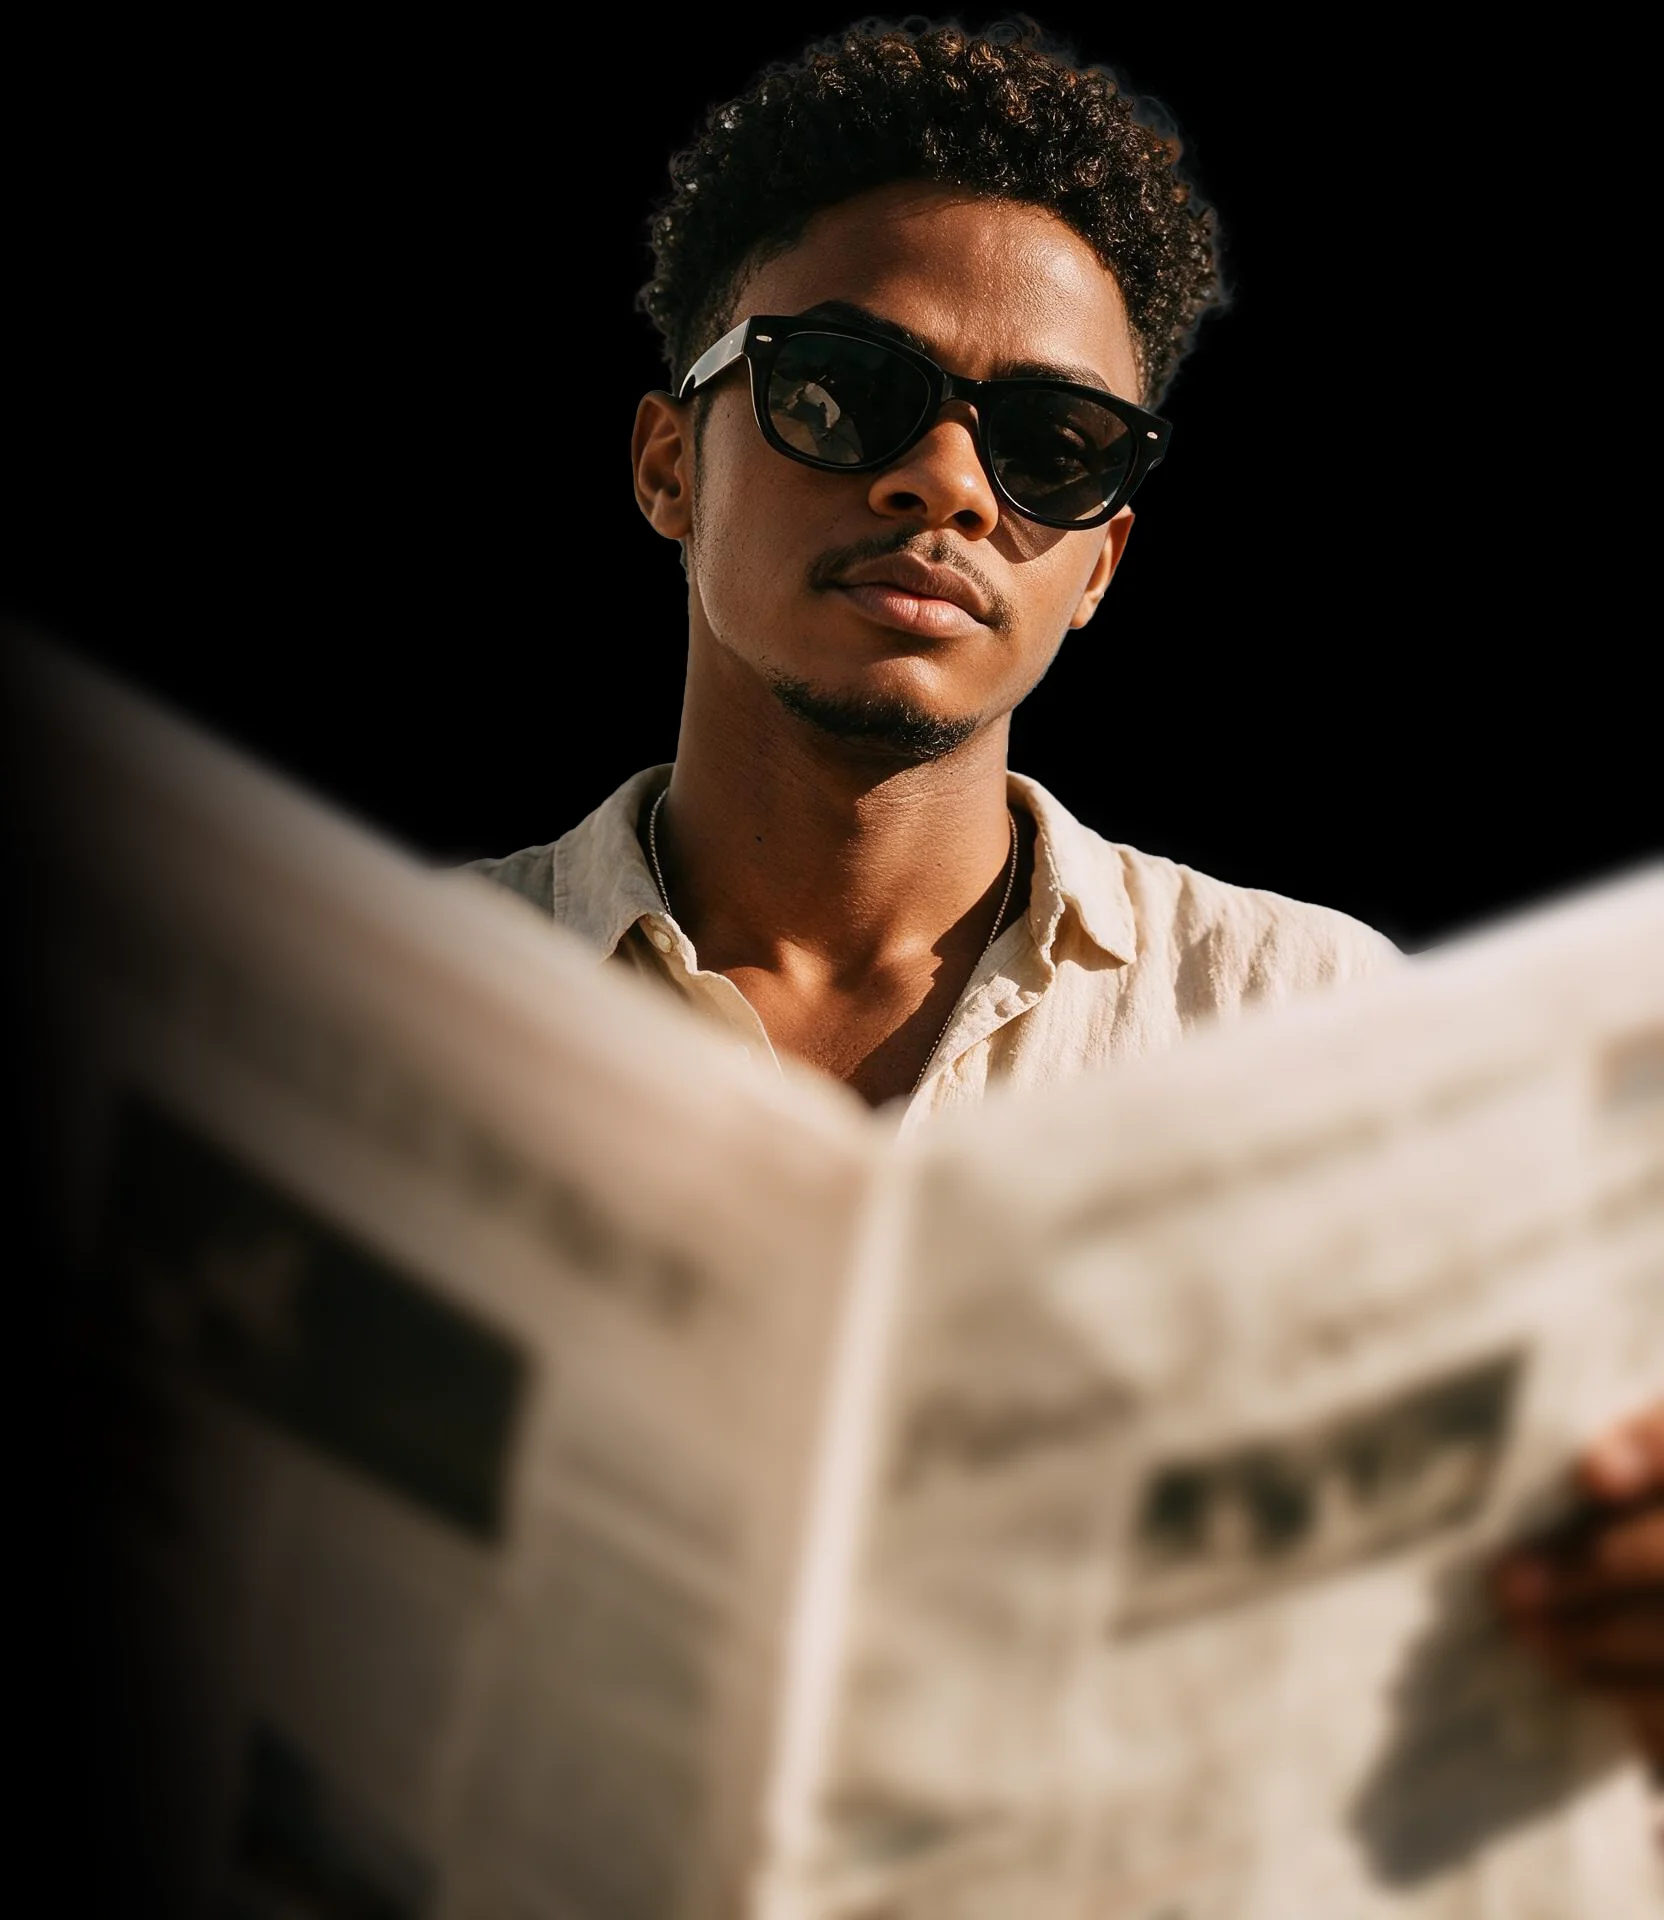
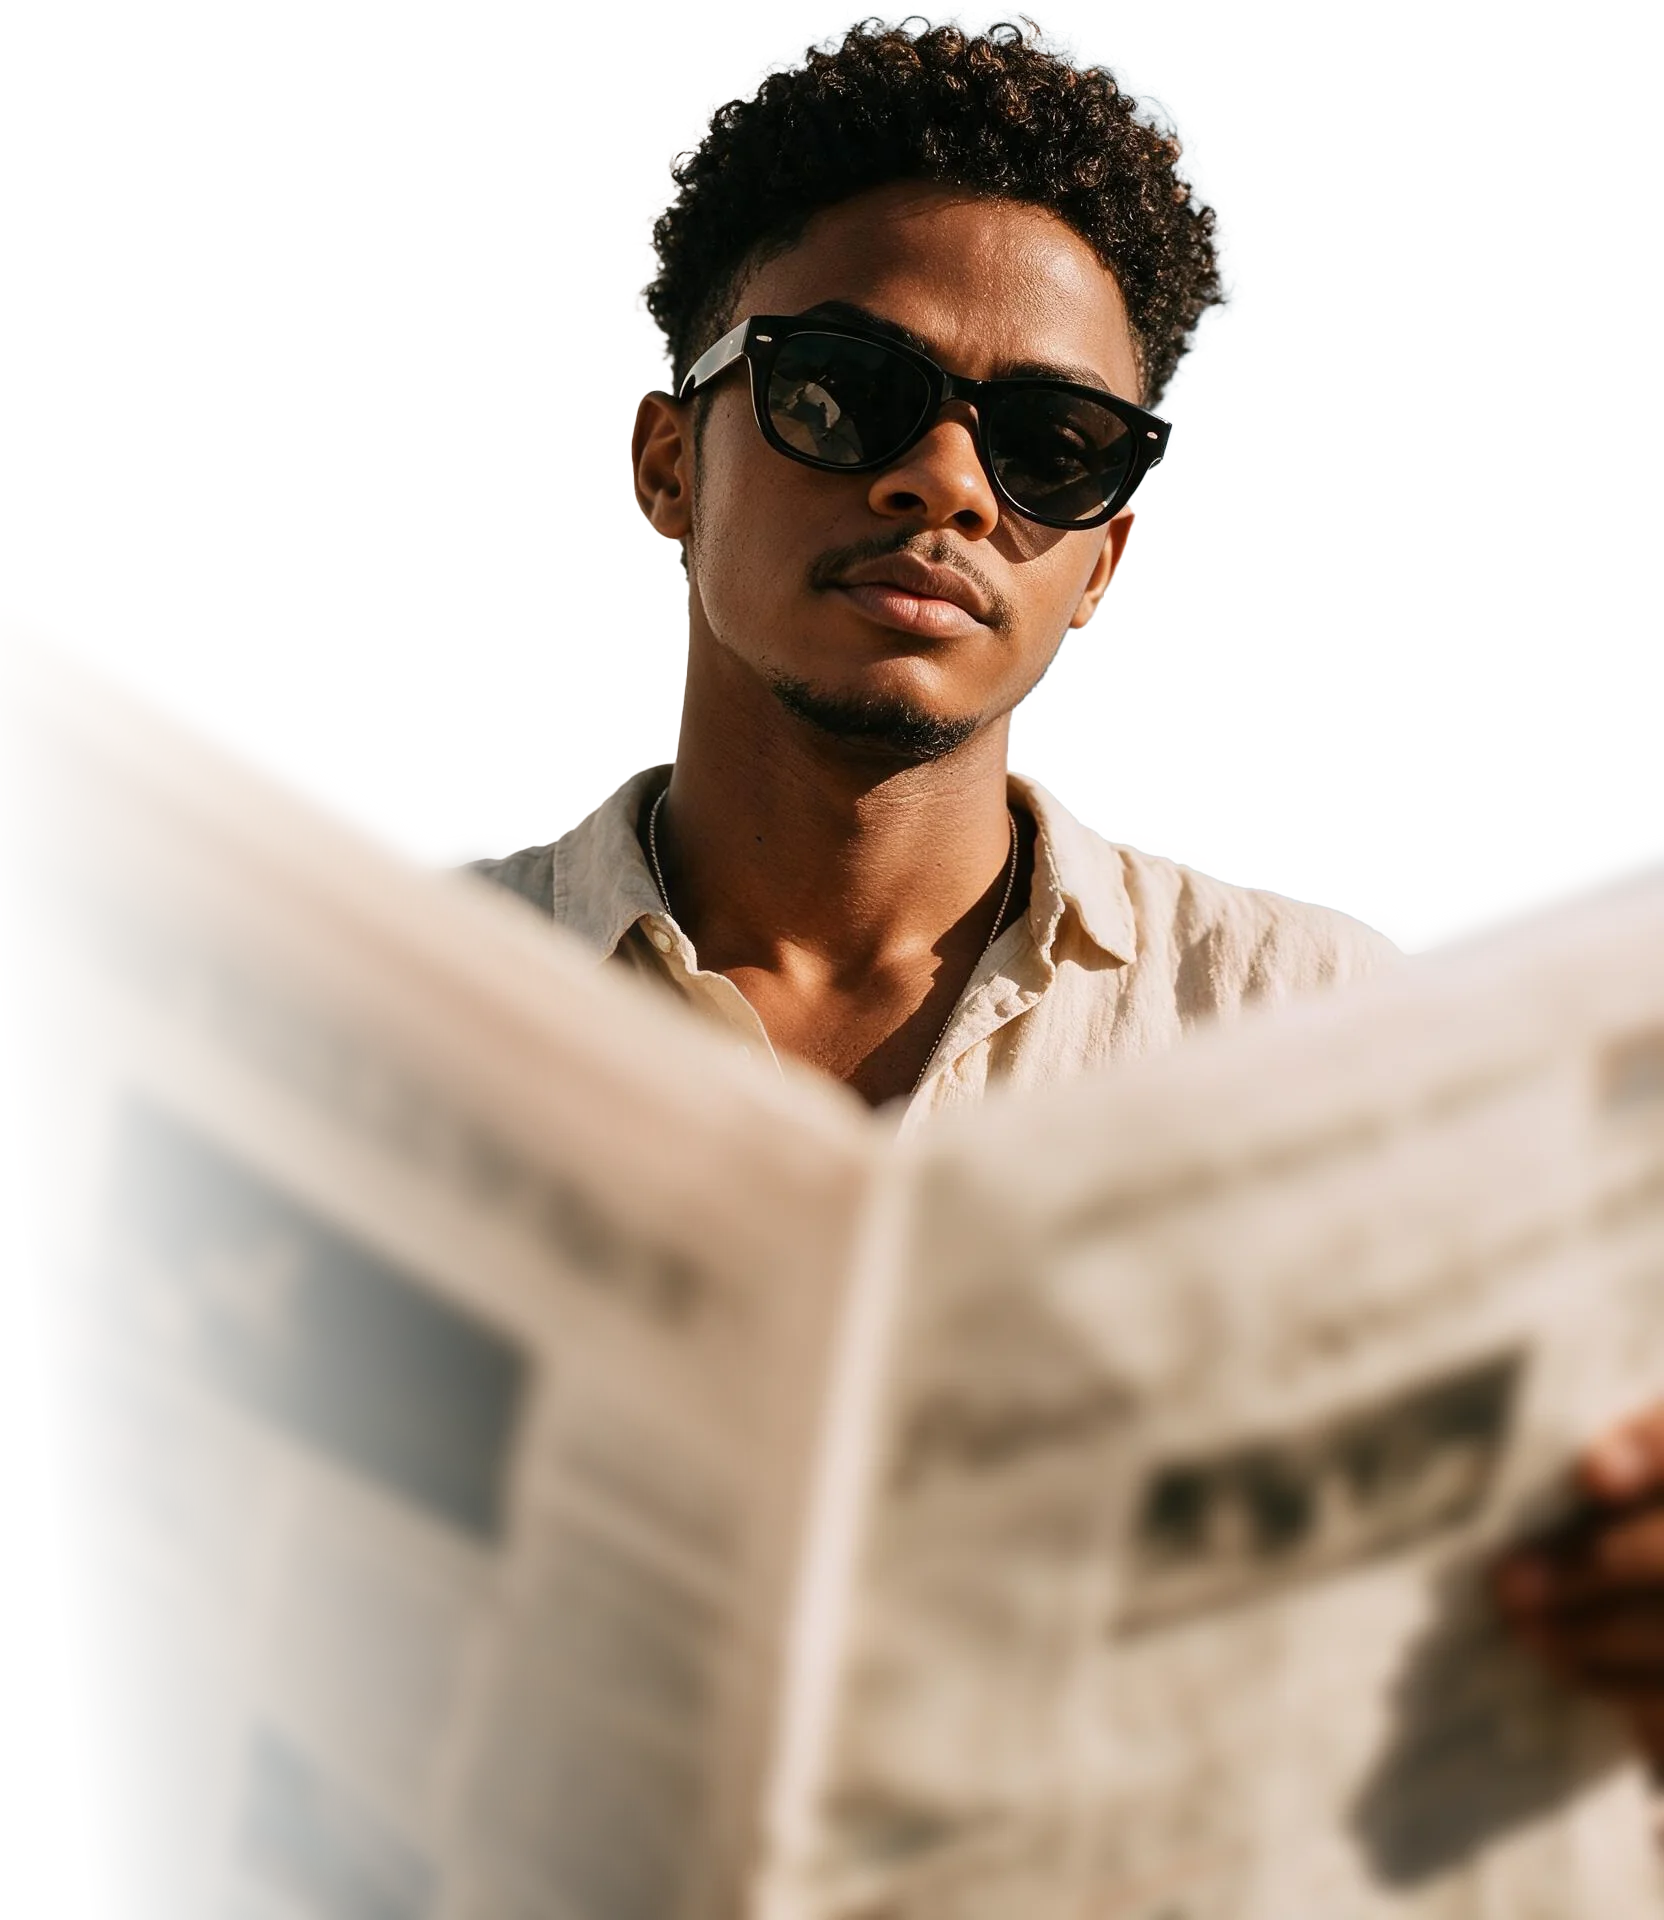
Accueil : portrait transparent dans la section Moi (fond transparent préservé, pas de fond noir)

diff --git a/index.html b/index.html
@@ -93,7 +93,7 @@
       </div>
       <picture class="h2-moi-media reveal reveal-left">
         <source srcset="assets/moi-portrait.webp" type="image/webp">
-        <img src="assets/moi-portrait.jpg" width="1664" height="1920" alt="Portrait du fondateur de Vasilías Studio" loading="lazy" decoding="async">
+        <img src="assets/moi-portrait.png" width="1664" height="1920" alt="Portrait du fondateur de Vasilías Studio" loading="lazy" decoding="async">
       </picture>
     </div>
   </section>
